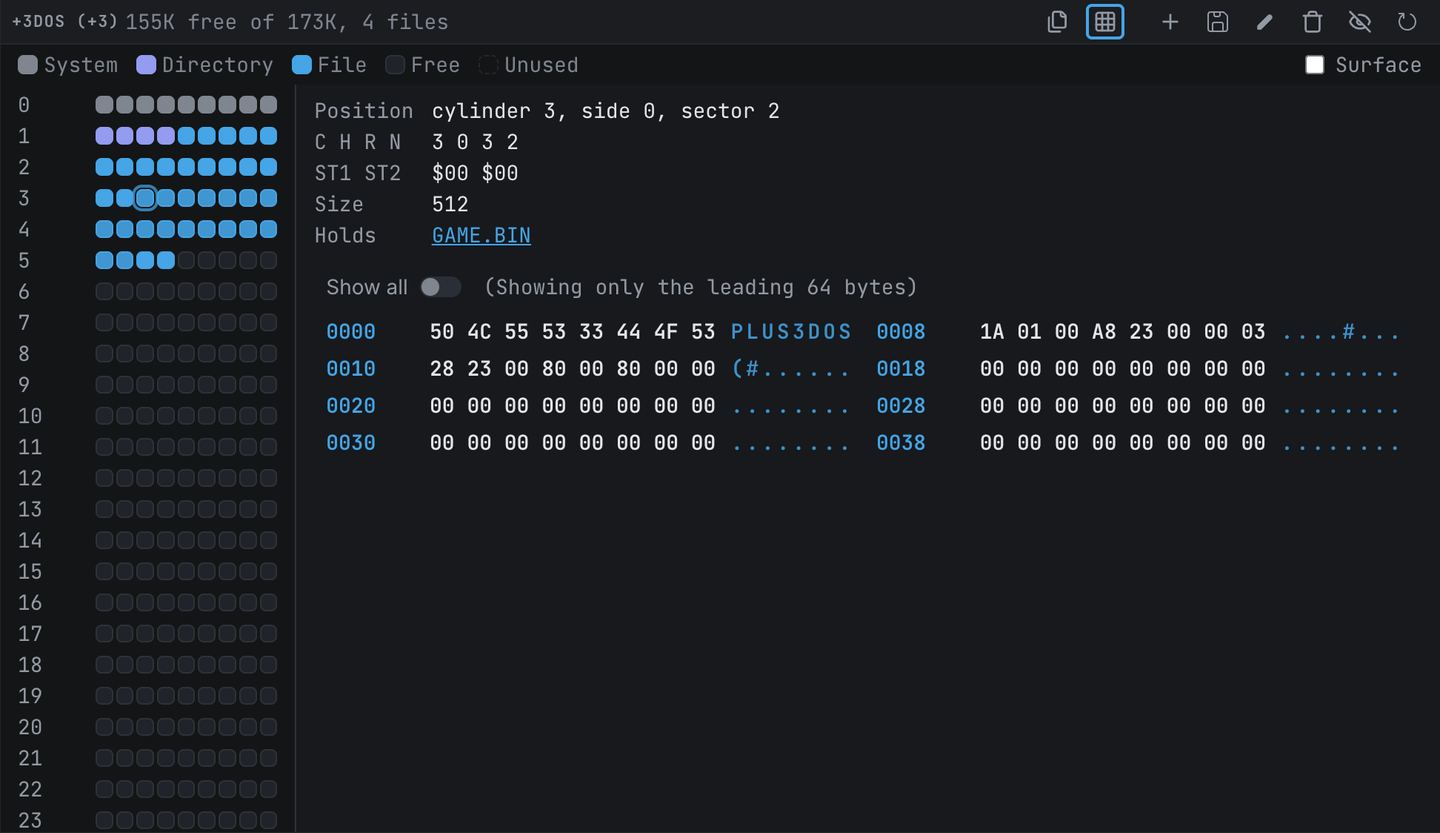
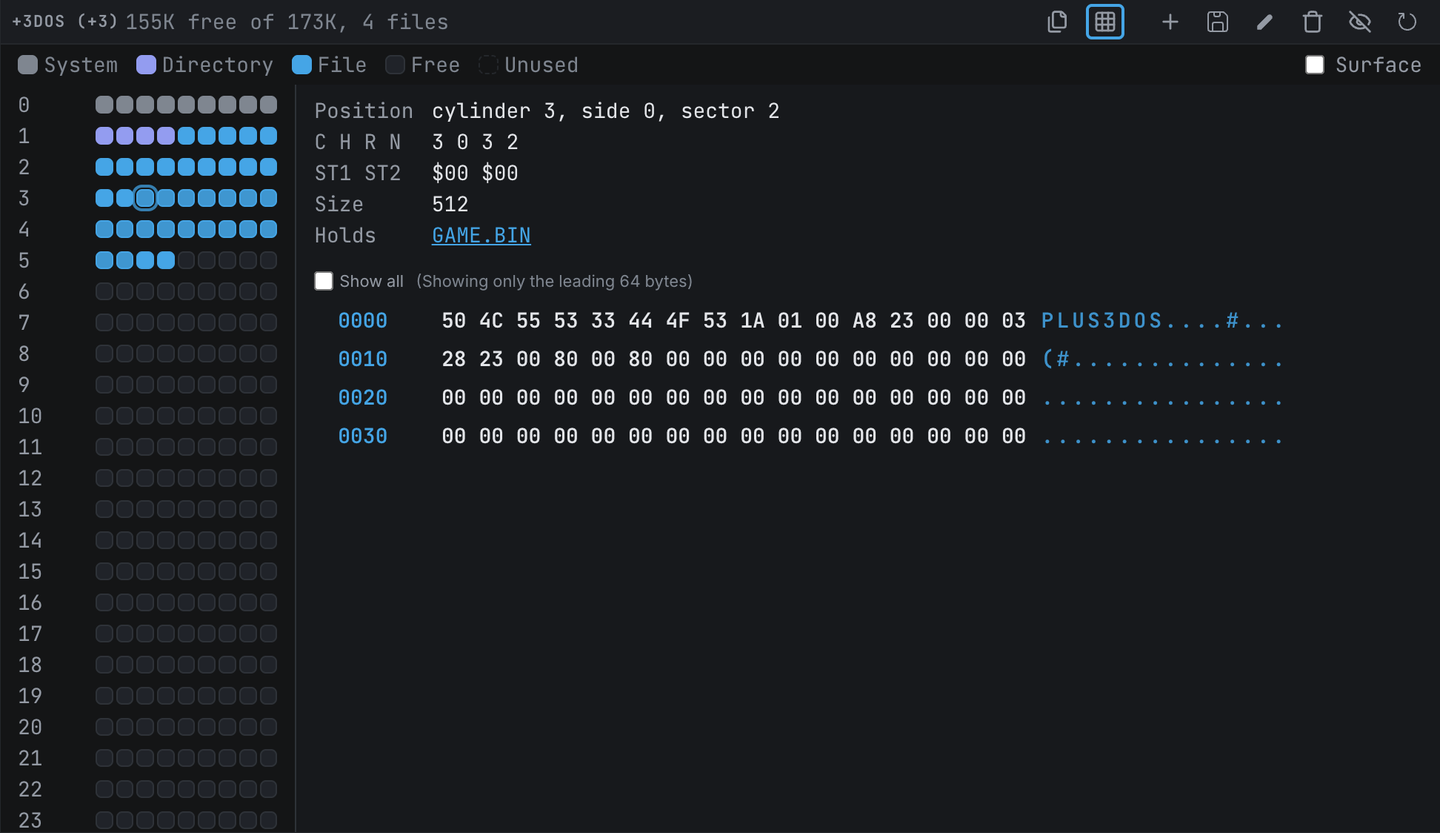
Draw the inline byte preview as the other hex dumps do
StaticMemoryView, the byte preview of the Disk Explorer, the Hard Disk
Explorer and the File Manager, drew a fixed 16-byte row as two
hard-coded 8-byte halves with its own striping and a LabeledSwitch.
It now draws one MemoryDumpSection per row in a DataRow, with
useByteView's cursor, selection and marks and the frame's Check for
"Show all".

- The cursor shows only once the preview has had focus.
- Offsets take four digits while what is shown fits in 64K.
- The Disk Explorer's layout and hard-disk shots and the disks
  tutorial's layout shot are regenerated; the lessons file and the
  changeset are extended; the type baseline drops to 102.

Changed region(s): [[0.2188, 0.3121, 0.875, 0.5618]]

diff --git a/src/renderer/appIde/DocumentPanels/StaticMemoryView.tsx b/src/renderer/appIde/DocumentPanels/StaticMemoryView.tsx
@@ -1,84 +1,103 @@
-import classnames from "classnames";
+import { useCallback, useMemo, useRef, useState } from "react";
 import { MemoryDumpSection } from "@renderer/features/memory/MemoryDumpSection";
-import styles from "./StaticMemoryView.module.scss";
-import { LabeledSwitch } from "@controls/LabeledSwitch";
-import { useEffect, useState } from "react";
-import { Label } from "@renderer/controls/layout/Label";
+import { DataRow } from "@renderer/controls/data";
+import { Check } from "@renderer/features/memoryMap/FrameControls";
+import { useByteView } from "@renderer/features/memoryMap/useByteView";
 import { useT } from "@common/i18n/useT";
+import styles from "./StaticMemoryView.module.scss";
+
+/*
+ * A compact byte preview inside another view: a disk sector, a file on a disk or in the File
+ * Manager, a hard disk's file. It draws its rows as every other dump does since the Memory view's
+ * redesign (`dev/ai/ui-theming-intent-and-lessons.md`, "Every hex dump uses the frame"): one
+ * `MemoryDumpSection` per 16-byte row in a `DataRow`, and the shared cursor, selection and marks
+ * (`useByteView`). It has no toolbar: only "Show all" when the bytes are more than the concise view
+ * lists. It is not virtualized - it sits in its host's scrolling panel.
+ */
 
 type MemoryViewProps = {
   memory: Uint8Array;
-  initialShowAll?: boolean
+  initialShowAll?: boolean;
   maxBytesInConciseView?: number;
 };
 
 const MAX_BYTES = 64;
+const BYTES_PER_ROW = 16;
 
-export const StaticMemoryView = ({ memory, initialShowAll = false, maxBytesInConciseView = MAX_BYTES }: MemoryViewProps) => {
+export const StaticMemoryView = ({
+  memory,
+  initialShowAll = false,
+  maxBytesInConciseView = MAX_BYTES
+}: MemoryViewProps) => {
   const t = useT();
-  const needsLabel = memory.length > maxBytesInConciseView;
+  const needsShowAll = memory.length > maxBytesInConciseView;
   const [showAll, setShowAll] = useState(initialShowAll);
-  const [bytesDisplayed, setBytesDisplayed] = useState(0);
-  const [memoryItems, setMemoryItems] = useState<number[]>([]);
-  useEffect(() => {
-    const items: number[] = [];
-    const displayLength = showAll
-      ? memory.length
-      : Math.min(maxBytesInConciseView, memory.length);
-    for (let addr = 0; addr < displayLength; addr += 0x10) {
-      items.push(addr);
-    }
-    setMemoryItems(items);
-    setBytesDisplayed(displayLength);
-  }, [memory, showAll]);
+  const shown = showAll ? memory.length : Math.min(maxBytesInConciseView, memory.length);
+  const bytes = useMemo(() => memory.subarray(0, shown), [memory, shown]);
+  const rows = useMemo(() => {
+    const starts: number[] = [];
+    for (let address = 0; address < shown; address += BYTES_PER_ROW) starts.push(address);
+    return starts;
+  }, [shown]);
+  // --- As the binary viewer: past 64K the offsets take the dashed six-digit form; the concise
+  // --- view of a large file shows its first bytes with four
+  const addressDigits: 4 | 6 = shown > 0x10000 ? 6 : 4;
+  /** The cursor and selection show only once the preview is in use, not as noise in its host */
+  const [active, setActive] = useState(false);
+
+  const viewRef = useRef<HTMLDivElement>(null);
+  const reveal = useCallback((index: number) => {
+    const row = viewRef.current?.querySelector(`[data-row="${index - (index % BYTES_PER_ROW)}"]`);
+    row?.scrollIntoView?.({ block: "nearest" });
+  }, []);
+  const view = useByteView({ bytes, bytesPerRow: BYTES_PER_ROW, decimal: false, reveal });
 
   return (
     <div className={styles.memoryView}>
-      <div>
-        {needsLabel && (
-          <div className={styles.header}>
-            <LabeledSwitch
-              value={showAll}
-              label={t("panels.doc.staticMemory.showAll")}
-              clicked={v => setShowAll(v)}
-            />
-            {needsLabel && !showAll && (
-              <Label text={t("panels.doc.staticMemory.showingLeading", { count: maxBytesInConciseView })} />
-            )}
-          </div>
-        )}
-      </div>
-      <div className={styles.memoryWrapper}>
-        {memoryItems.map((mi, idx) => {
-          return (
-            <div
-              key={mi}
-              className={classnames(styles.item, {
-                [styles.even]: idx % 2 == 0,
-                [styles.twoSections]: true
-              })}
-            >
+      {needsShowAll && (
+        <div className={styles.header}>
+          <Check label={t("panels.doc.staticMemory.showAll")} value={showAll} onChange={setShowAll} />
+          {!showAll && (
+            <span className={styles.note}>
+              {t("panels.doc.staticMemory.showingLeading", { count: maxBytesInConciseView })}
+            </span>
+          )}
+        </div>
+      )}
+      <div
+        ref={viewRef}
+        className={styles.rows}
+        tabIndex={0}
+        role="grid"
+        aria-label={t("panels.memoryView.dump")}
+        onFocus={() => setActive(true)}
+        onKeyDown={(e) => {
+          // --- The preview is short: a page is what is shown
+          if (view.onKeyDown(e, rows.length)) {
+            e.preventDefault();
+            e.stopPropagation();
+          }
+        }}
+      >
+        {rows.map((address, idx) => (
+          <div key={address} data-row={address}>
+            <DataRow index={idx} hoverable>
               <MemoryDumpSection
-                key={mi}
-                address={mi}
-                bytes={memory.slice(mi, mi + 8)}
+                address={address}
+                bytes={bytes.subarray(address, address + BYTES_PER_ROW) as unknown as readonly number[]}
                 decimalView={false}
                 charDump={true}
                 lastJumpAddress={-1}
+                addressDigits={addressDigits}
+                marks={active ? view.marksOf(address, Math.min(BYTES_PER_ROW, shown - address)) : undefined}
+                onBytePointer={(index, kind, extend) => {
+                  viewRef.current?.focus({ preventScroll: true });
+                  view.onBytePointer(index, kind, extend);
+                }}
               />
-              {mi + 0x08 < bytesDisplayed && (
-                <MemoryDumpSection
-                  key={mi + 0x08}
-                  address={mi + 0x08}
-                  bytes={memory.slice(mi + 0x08, mi + 0x10)}
-                  decimalView={false}
-                  charDump={true}
-                  lastJumpAddress={-1}
-                />
-              )}
-            </div>
-          );
-        })}
+            </DataRow>
+          </div>
+        ))}
       </div>
     </div>
   );

diff --git a/src/renderer/appIde/DocumentPanels/StaticMemoryView.module.scss b/src/renderer/appIde/DocumentPanels/StaticMemoryView.module.scss
@@ -1,42 +1,34 @@
 @use "@styles/core.scss" as *;
 
+// --- A compact byte preview (`StaticMemoryView.tsx`): "Show all" over rows the data kit stripes
+
 .memoryView {
+  display: flex;
   box-sizing: border-box;
   flex-direction: column;
   user-select: none;
   font-family: var(--monospace-font);
 }
 
-.memoryWrapper {
+// --- The UI font and size for the control and its note, as a frame's toolbar
+.header {
   display: flex;
-  flex-grow: 0;
-  flex-shrink: 0;
-  height: fit-content;
-  box-sizing: border-box;
-  flex-direction: column;
-  user-select: none;
+  align-items: center;
+  gap: var(--space-2);
+  padding: var(--space-1) 0;
+  font-family: var(--main-font-family);
+  font-size: var(--font-size-100);
 }
 
-.item {
+.note {
+  color: var(--data-secondary);
+}
+
+.rows {
   display: flex;
   flex-direction: column;
   width: fit-content;
-
-  &.twoSections {
-    flex-direction: row;
-  }
-
-  &.even {
-    background: var(--bgcolor-disass-even-row);
-  }
-
-  &:hover {
-    background: var(--bgcolor-disass-hover);
-  }
-}
-
-.header {
-  display: flex;
-  flex-direction: row;
-  align-items: center;
+  max-width: 100%;
+  outline: none;
+  @include focus-ring;
 }

diff --git a/dev/ai/ui-theming-intent-and-lessons.md b/dev/ai/ui-theming-intent-and-lessons.md
@@ -2776,7 +2776,12 @@ The Memory and Disassembly documents share one frame (`features/memoryMap/`,
   bank dumps take the same controls (`FrameControls`), the same per-row marks (`byteMarks.ts`), the
   same cursor, selection and Find (`useByteView`) and the same Value and Selection sections
   (`ByteSections.tsx`, a read-only `ByteInspector`); a dump with its own toolbar is how the old
-  8x2 layout and `AddressInput` outlived the Memory view's redesign. **A box that takes a typed
+  8x2 layout and `AddressInput` outlived the Memory view's redesign. **A byte preview inside another
+  view** (`StaticMemoryView`: a disk sector, a file on a disk, in the File Manager or on a hard disk)
+  draws the same rows - one `MemoryDumpSection` per 16-byte row in a `DataRow`, `useByteView`'s
+  cursor and selection - with no toolbar beyond the frame's `Check` for "Show all". Its cursor shows
+  only once the preview has had focus: a box on byte 0 of every sector is noise in its host. Its
+  offsets take four digits while what it shows fits in 64K, whatever the file's size. **A box that takes a typed
   address is `GoToBox`** everywhere (the Graphics Finder, a NEX bank's sprites, a tape block's List
   at, with `label` for a name other than Go to), parsed by `parseGoToNumber` and refusing with
   `GO_TO_ERROR_KEYS.number`; `AddressInput` is deleted. A document whose body is

diff --git a/dev/changes/memory-disassembly-views-redesigned-both-3598.md b/dev/changes/memory-disassembly-views-redesigned-both-3598.md
@@ -18,4 +18,6 @@ aligned, collapsible sections, with the screen framed beside the summary.
 The Graphics Finder, a NEX bank's sprites and a tape block's List at take the same Go to box, which
 marks text it cannot read; the Graphics Finder scrolls with the app's overlay scrollbar, and the
 µPD765 log colours its port and byte as the other state panels do. The NEX, `TBBLUE.FW` and
-`TBBLUE.TBU` viewers and the palette editor's help use the same sections as the other file viewers.
+`TBBLUE.TBU` viewers and the palette editor's help use the same sections as the other file viewers,
+and the byte previews of the Disk Explorer, the Hard Disk Explorer and the File Manager draw their
+rows, cursor and selection as the other hex dumps do.
